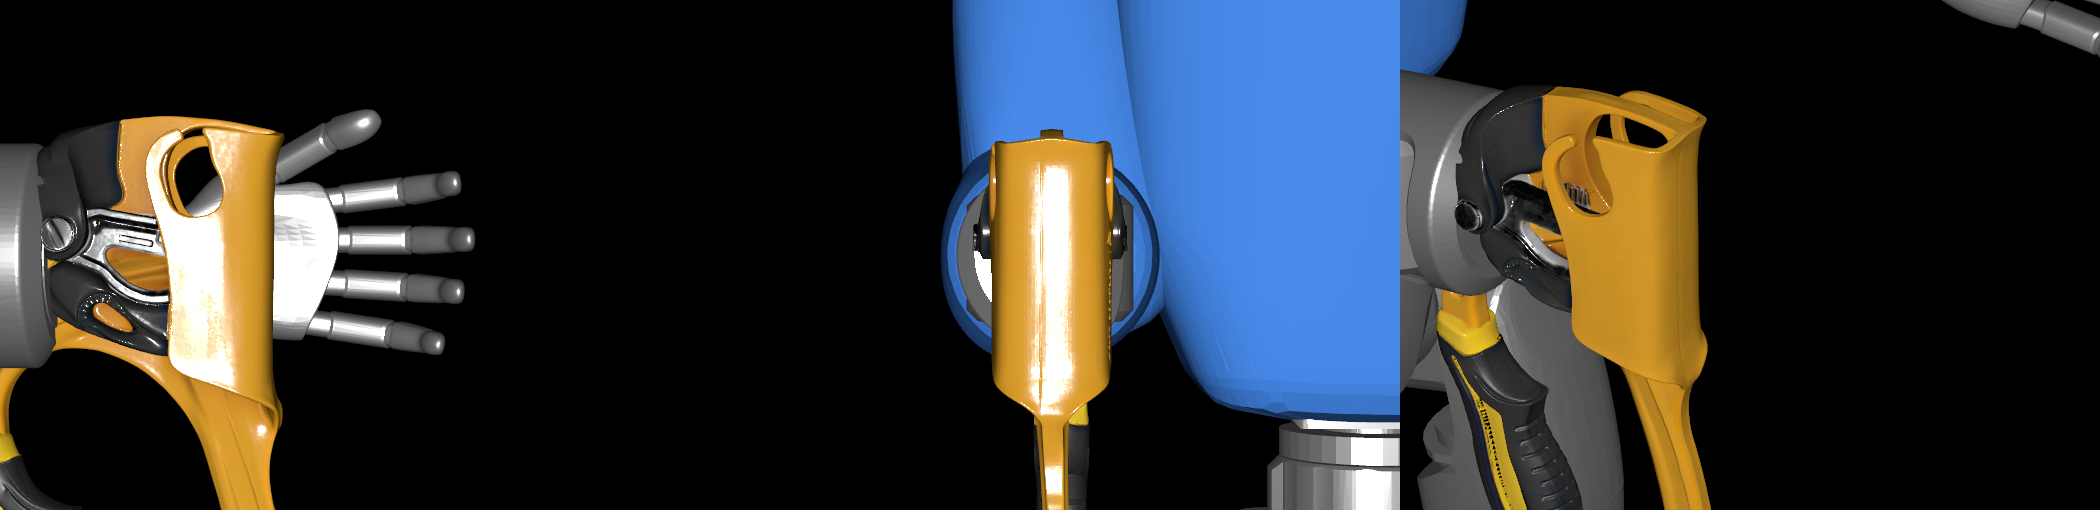
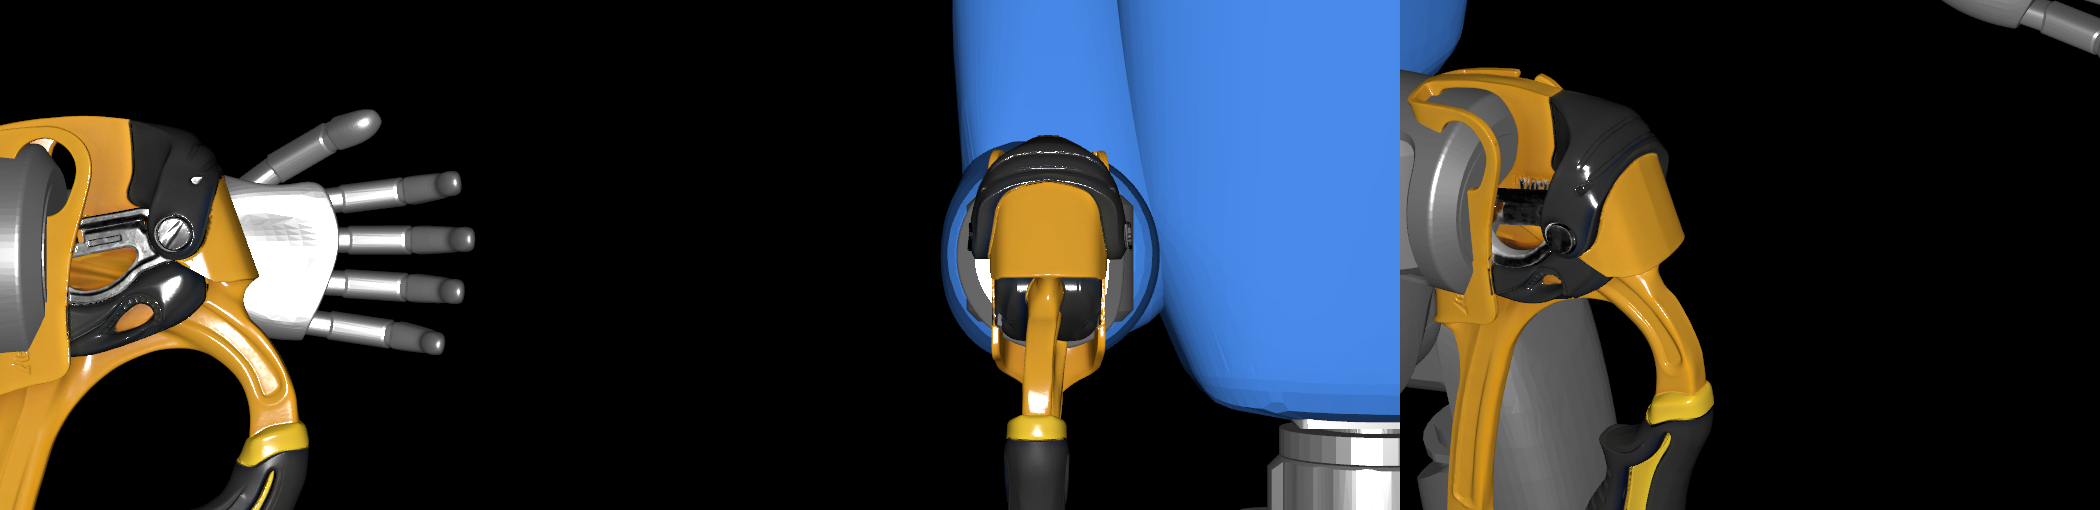
Ascender yawed 180 deg
Claude-Session: https://claude.ai/code/session_01Kj5So1s4xrTsHeTeJU72py

Changed region(s): [[0.65, 0.1176, 0.8357, 1.0], [0.0, 0.2059, 0.1548, 1.0], [0.4643, 0.2353, 0.5571, 1.0]]

diff --git a/assets/robots/g1/attach_tool.py b/assets/robots/g1/attach_tool.py
@@ -16,10 +16,10 @@ LINK = "/G1/right_wrist_yaw_link"
 # Mount: ascender UPRIGHT like on a fixed rope - cam head centred on the wrist joint, handle hanging below
 # (wrist frame: X = forearm, Z = up when the arm is horizontal).
 # Basis mapping (Gf is row-vector convention: rows = images of tool X, Y, Z in the wrist frame):
-#   tool X (width)        -> wrist -X
-#   tool Y (thickness)    -> wrist -Y   (cam plate faces sideways)
+#   tool X (width)        -> wrist +X
+#   tool Y (thickness)    -> wrist +Y   (cam plate faces sideways)
 #   tool Z (handle->head) -> wrist +Z   (head up, handle down)
-_R = Gf.Matrix3d(-1, 0, 0,   0, -1, 0,   0, 0, 1)
+_R = Gf.Matrix3d(1, 0, 0,   0, 1, 0,   0, 0, 1)
 HEAD_Z = (0.12, 0.195)                       # cam head span along the tool axis
 TOOL_POS = Gf.Vec3d(0.06, 0.0, -(HEAD_Z[0] + HEAD_Z[1]) / 2)   # head centred on the joint, just past the wrist mesh (x=0.047)
 _qd = _R.ExtractRotation().GetQuat(); TOOL_ROT = Gf.Quatf(_qd.GetReal(), *_qd.GetImaginary())
